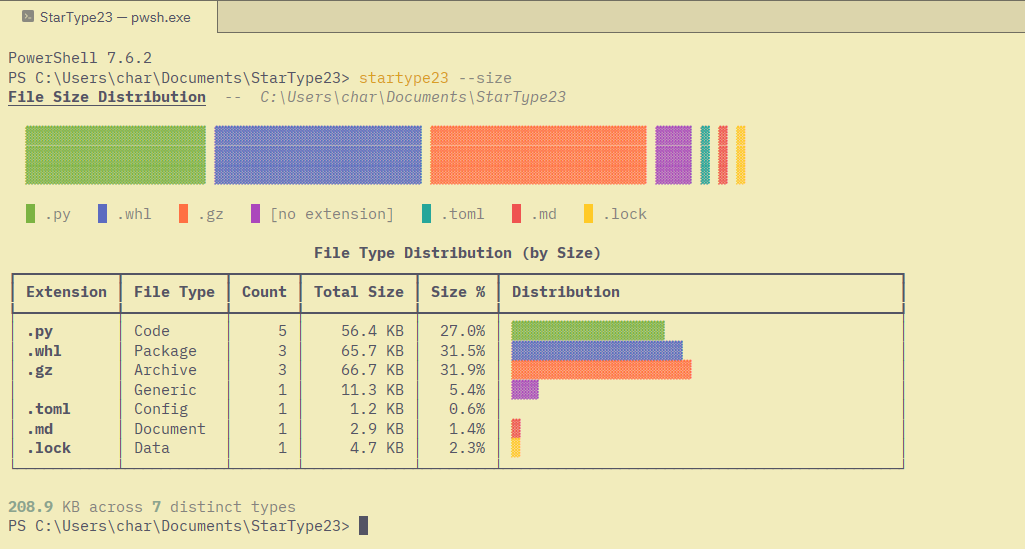
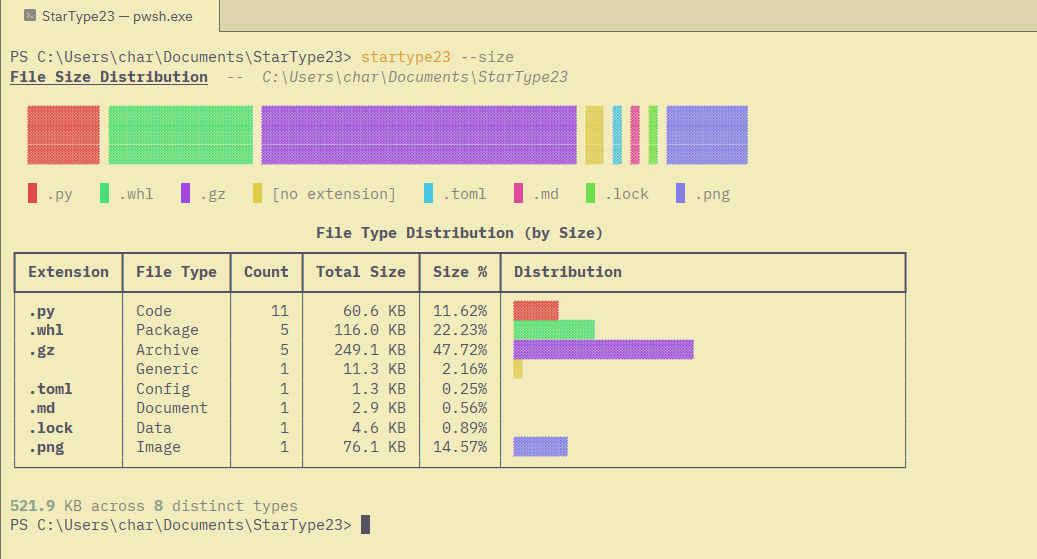
release v1.4.1 -- update screenshot

diff --git a/src/startype23/__init__.py b/src/startype23/__init__.py
@@ -1,3 +1,3 @@
 """StarType23 -- A CLI tool for colourful file type distribution charts."""
 
-__version__ = "1.4.0"
+__version__ = "1.4.1"